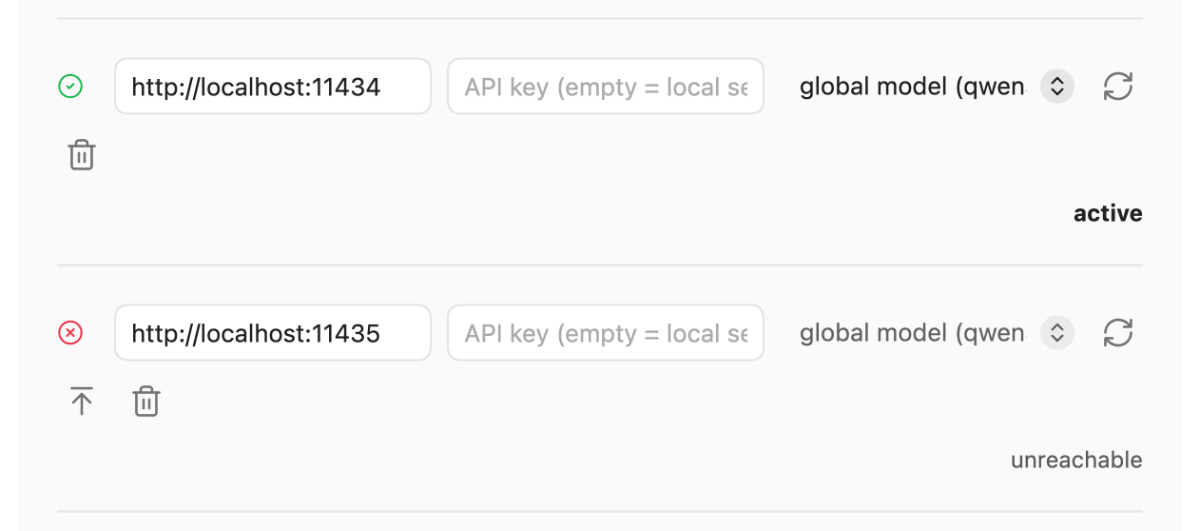
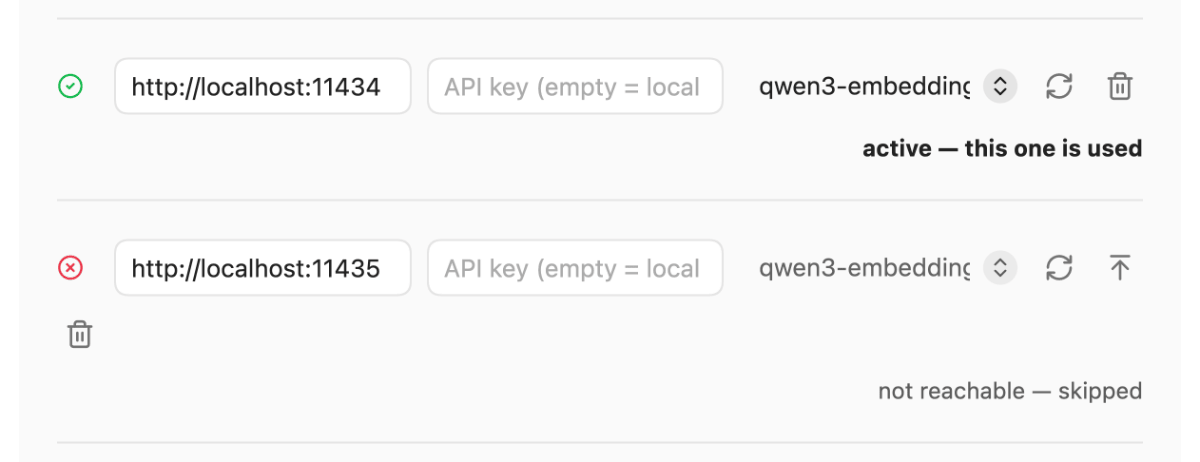
docs(images): endpoints und settings neu aufgenommen (Kit-Rollentexte, Embedding-Schlüsselzeile)
Das Rezept setzt die Embedding-Zeilen jetzt mit Modell (seit 0.31.0 trägt die Zeile es selbst).

diff --git a/scripts/shots.ts b/scripts/shots.ts
@@ -674,12 +674,14 @@ const SHOTS: Shot[] = [
     // Kein vorgetaeuschter Zustand: ein zweiter, toter Endpunkt ist genau die
     // Fallback-Liste, die das Feature beschreibt — der Port ist bewusst einer, auf dem
     // nichts lauscht, damit die Rolle "unreachable" ECHT gemessen wird und nicht behauptet.
+    // Seit 0.31.0 tragen die Zeilen ihr Modell selbst; ohne Modell ueberspringt der Resolver die Zeile
+    // („skipped — model does not match the index“) und das Bild zeigt keine aktive Rolle.
     async vorher(cdp) {
       await cdp.evaluate(`
         const p = app.plugins.plugins[${JSON.stringify(PLUGIN_ID)}];
         p.settings.embeddingEndpoints = [
-          { url: "http://localhost:11434" },
-          { url: "http://localhost:11435" },
+          { url: "http://localhost:11434", model: "qwen3-embedding:8b" },
+          { url: "http://localhost:11435", model: "qwen3-embedding:8b" },
         ];
         await p.saveSettings?.();
         return true;
